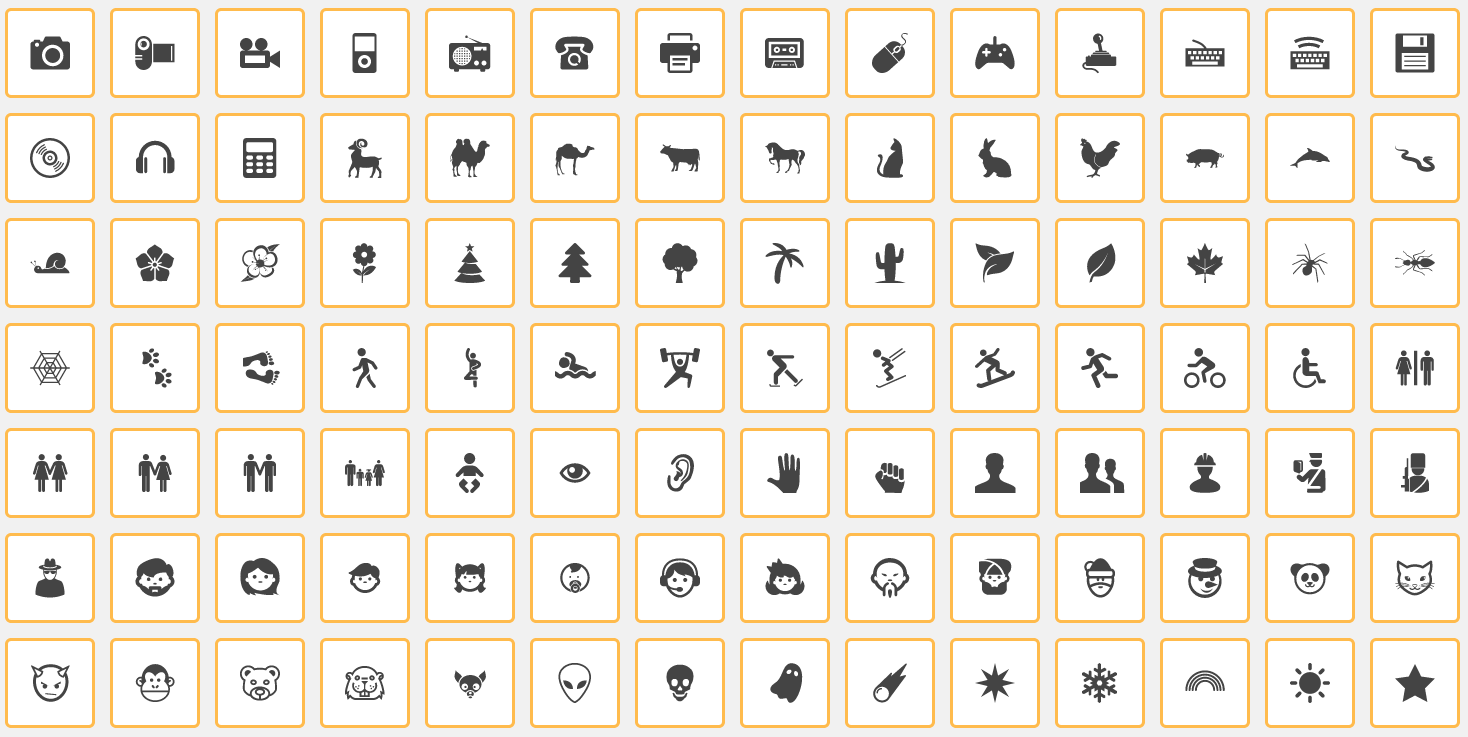
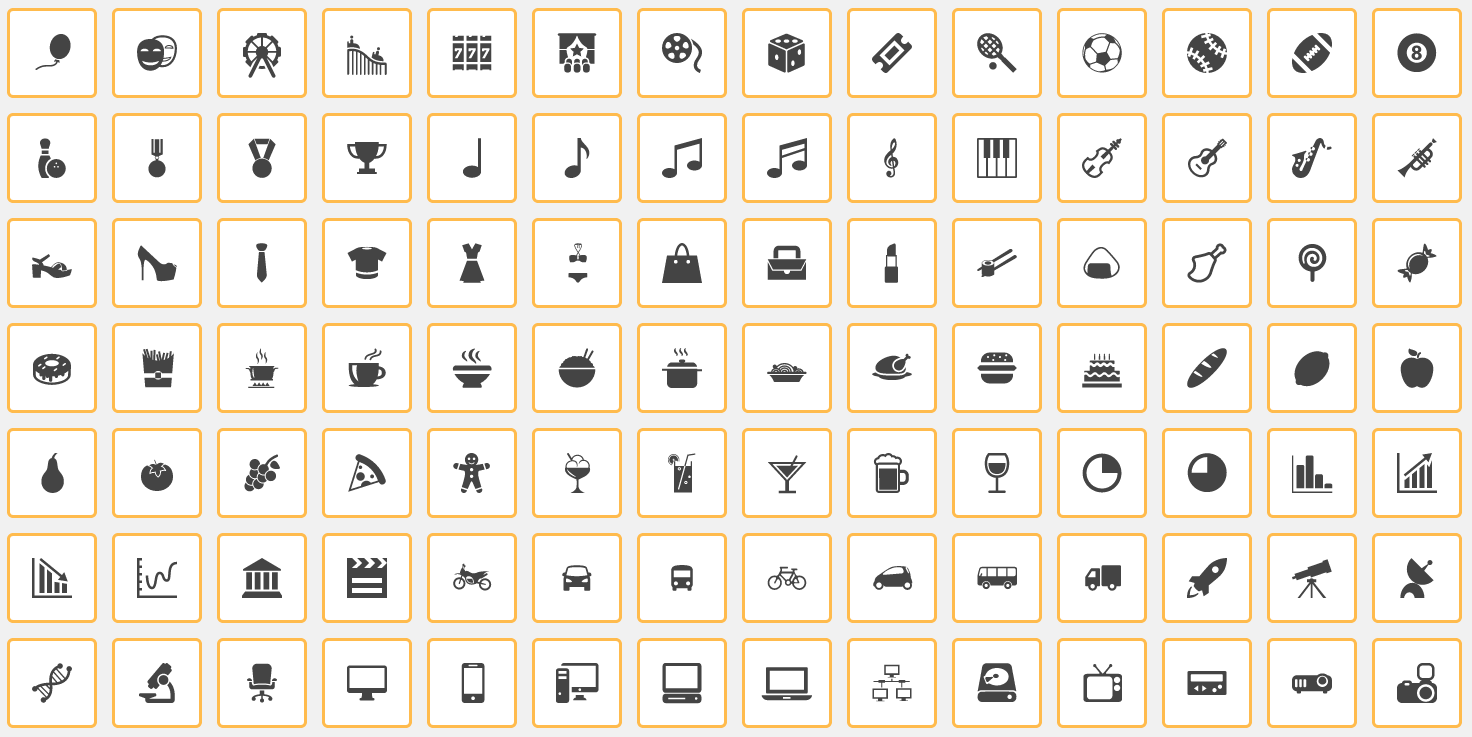
Adding screenshot
Adding screenshot

diff --git a/readme.md b/readme.md
@@ -61,10 +61,11 @@ As mentioned in the first conf call, the `.icon-print:before` is indeed a hack t
 
 ##### Examples :
 
-![Screenshot](http://jslegers.github.io/emoji-icon-font/screenshot.png)
+![Screenshot](http://jslegers.github.io/emoji-icon-font/screenshot1.png)
 ![Screenshot](http://jslegers.github.io/emoji-icon-font/screenshot2.png)
 ![Screenshot](http://jslegers.github.io/emoji-icon-font/screenshot3.png)
 ![Screenshot](http://jslegers.github.io/emoji-icon-font/screenshot4.png)
+![Screenshot](http://jslegers.github.io/emoji-icon-font/screenshot5.png)
 
 ## Author
 
